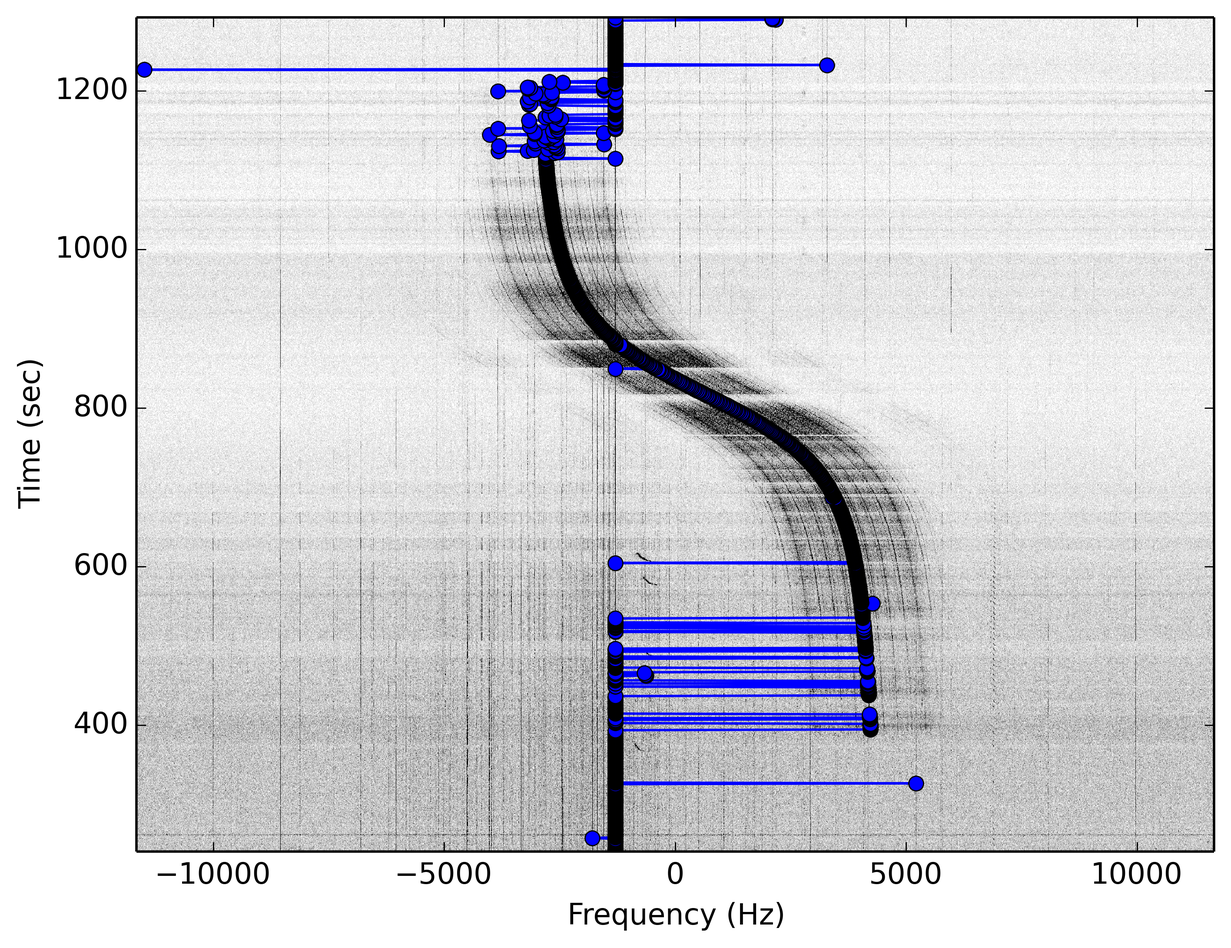
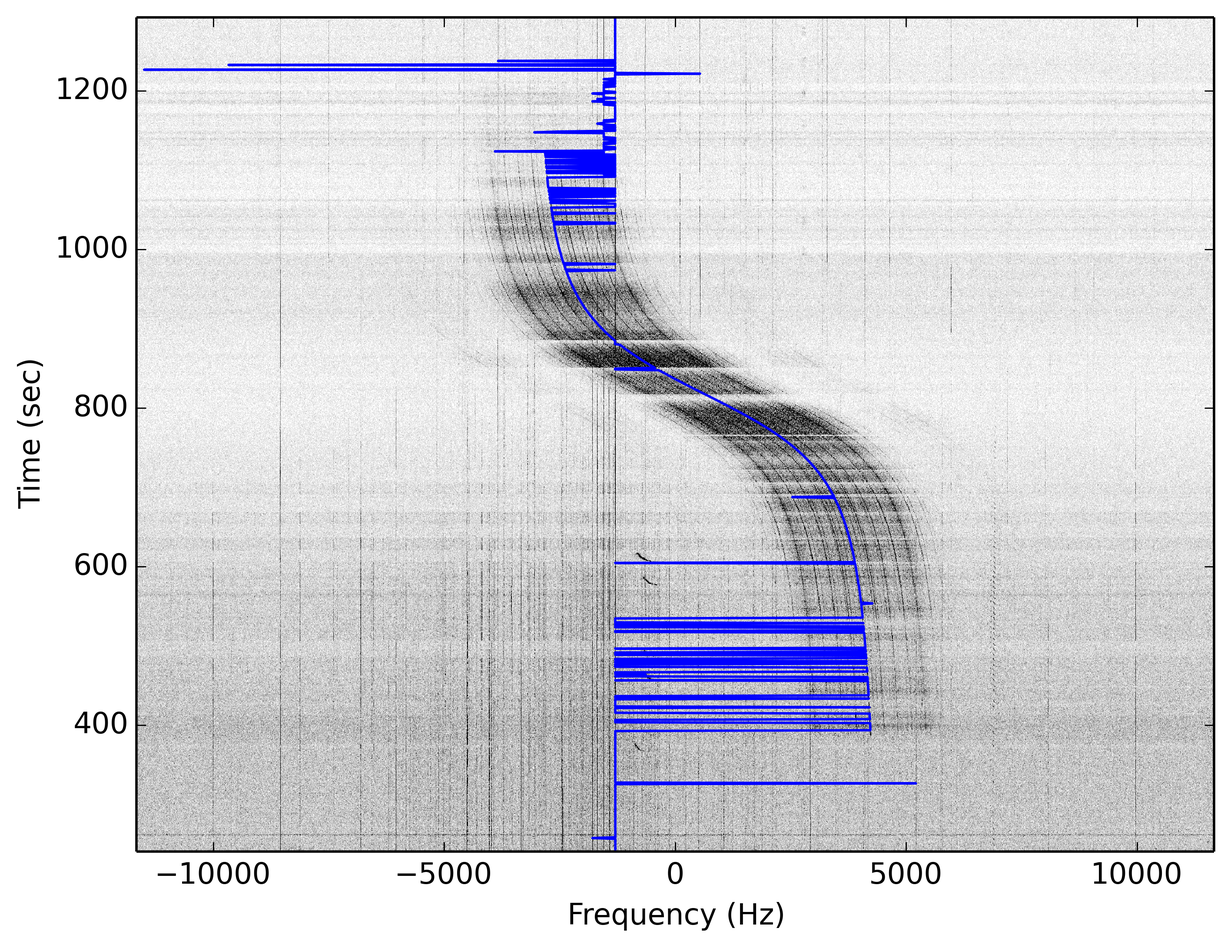
update

Changed region(s): [[0.1864, 0.0, 0.6834, 0.4051], [0.4659, 0.4051, 0.7144, 0.9038], [0.0932, 0.0623, 0.1242, 0.0935]]

diff --git a/maxfrequencyclean.py b/maxfrequencyclean.py
@@ -1,7 +1,7 @@
 import numpy as np
 from math import factorial as fact
 
-width=1000
+width = 2700
 
 def getSum(interval):
     return np.sum(np.abs(interval))
@@ -17,7 +17,7 @@ def getInitialGuess(amplitudesArray, frequencies):
         oldTenSum = np.sum(np.abs(amplitudes[0:10]))
         lst2.append(tempSum)
         for index in range(10, np.size(amplitudes)-width, 10):
-            newTenSum = np.sum(np.abs(amplitudes[index+990:index+width]))
+            newTenSum = np.sum(np.abs(amplitudes[index+width-10:index+width]))
             oldTenSum = np.sum(np.abs(amplitudes[index-10:index]))
             tempSum += newTenSum - oldTenSum
             lst2.append(tempSum)
@@ -60,8 +60,8 @@ def getInitialGuessByMethod(A, frequencies, method):
         lst2=[]
         absLst = [h if h > 0 else -h for h in A[interval][0:width]] 
         lst2.append(method(absLst))        
-        for i in range((len(A[interval])-3010)/10):
-            lst3 = [h if h > 0 else -h for h in A[interval][width+(i*10):(i*10)+1010]]
+        for i in range((len(A[interval])-width-10)/10):
+            lst3 = [h if h > 0 else -h for h in A[interval][width+(i*10):(i*10)+width+10]]
             absLst = absLst[10:width]
             absLst.extend(lst3)
             lst2.append(method(absLst))
@@ -75,7 +75,7 @@ def getMaxFrequency(frequencies, amplitudes):
     oldTenSum = np.sum(np.abs(amplitudes[0:10]))
     lst2.append(tempSum)
     for index in range(10, np.size(amplitudes)-width, 10):
-        newTenSum = np.sum(np.abs(amplitudes[index+990:index+width]))
+        newTenSum = np.sum(np.abs(amplitudes[index+width-10:index+width]))
         oldTenSum = np.sum(np.abs(amplitudes[index-10:index]))
         tempSum += newTenSum - oldTenSum
         lst2.append(tempSum)

diff --git a/tlerangerate.py b/tlerangerate.py
@@ -178,13 +178,12 @@ def tlerangerate():
 def interpolation(y0,y1,x,x0,x1):
     newValue=y0+(y1-y0)*((x-x0)/(x1-x0))
     return newValue
-
-def compare(exprangerate,newtimedeltav,tletimedeltav):
+def compare(exprangerate,newtimedeltav,tletimedeltav, mode="disp"):
     tlerr = tlerangerate()
     
     fig1 = plt.figure()
     ax1 = fig1.add_subplot(111)
-    ax1.plot(tlerr[0][1],color='red',label='tle.xyz') 
+    ax1.plot(tlerr[0][1],color='red',label='TLE')
     
     check=exprangerate[0][0]
     ax1.plot(exprangerate[0][0],exprangerate[1][0],'gs',label='Model 1')
@@ -214,9 +213,11 @@ def compare(exprangerate,newtimedeltav,tletimedeltav):
     plt.ylabel("Range-Rate (km/s)")
     plt.xlim(400,1250)
     plt.legend()
-    plt.savefig("RangeRate-Time.png", bbox_inches='tight', dpi=400)
-    
-    
+    if mode == "save":
+        plt.savefig("img/RangeRate-Time.png", bbox_inches='tight', dpi=400)
+
+    plt.close()
+
     error1temp = errorCount(exprangerate)
     error1 = [abs(error1temp[n]) for n in range(len(error1temp))]
     error2temp = errorCount(newtimedeltav)
@@ -256,9 +257,13 @@ def compare(exprangerate,newtimedeltav,tletimedeltav):
     plt.xlim(400,1250)
     plt.ylim(0,5)
     plt.legend()
-    plt.savefig("ErrorPlot.png", bbox_inches='tight', dpi=400)
-    plt.show()
-    
+
+    if mode == "disp":
+        plt.show()
+    else:
+        plt.savefig("img/ErrorPlot.png", bbox_inches='tight', dpi=400)
+
+
     
     
 def errorCount(rangerate):

diff --git a/rangeRateClass.py b/rangeRateClass.py
@@ -126,8 +126,8 @@ class rangeRate:
     def plot2DWaterfallPlot(self):
         self.wavReader.plot2DWaterfallPlot(mode="disp")
 
-    def plotComparison(self):
-        compare(self.timedeltav,self.newtimedeltav,self.newtimedeltav2)
+    def plotComparison(self, mode="disp"):
+        compare(self.timedeltav,self.newtimedeltav,self.newtimedeltav2, mode=mode)
 
 
     def wavReaderCalc(self):
@@ -180,6 +180,6 @@ def init():
 if __name__ == "__main__":
 
     rr = init()
-    rr.wavReaderCalc()
-    rr.maxFrequencyCalc()
-    rr.plot2DWaterfallplotWithMaxFrequencies(mode="save")
+    rr.doCalculations()
+    # rr.plot2DWaterfallplotWithMaxFrequencies(mode="save")
+    rr.plotComparison(mode="save")

diff --git a/wavReadFourier.py b/wavReadFourier.py
@@ -361,7 +361,7 @@ class wavReaderFourierTransformer:
             plt.axis([frequencies.min(), frequencies.max(), times.min(), times.max()])
 
             maxFrequencies = map(lambda x:x-listeningfrequency, maxFrequencies)
-            plt.plot(maxFrequencies, self.times, marker='o')
+            plt.plot(maxFrequencies, self.times)#, marker='o')
             # plt.plot(expectedmaxfreqlist, self.times, marker='o')
 
 
